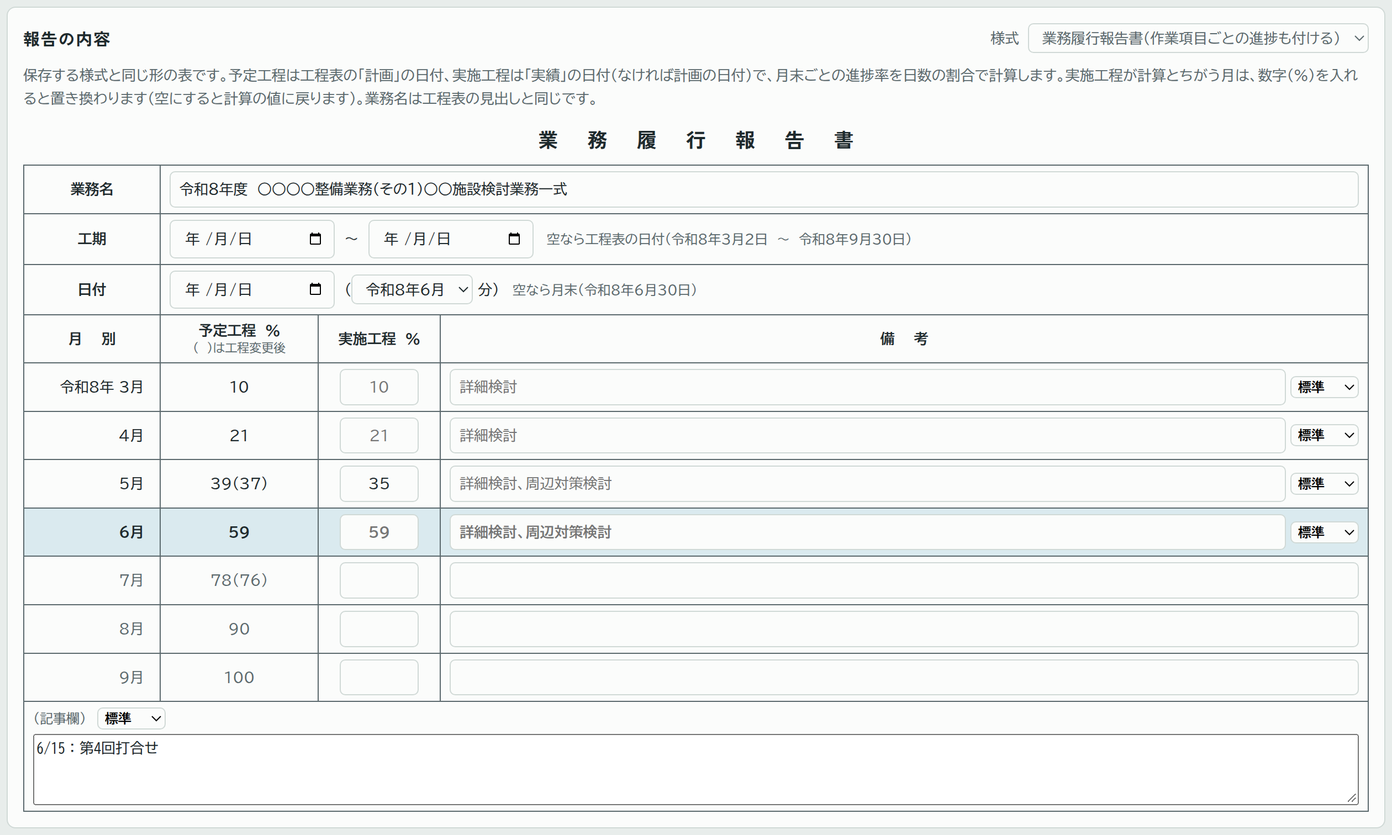
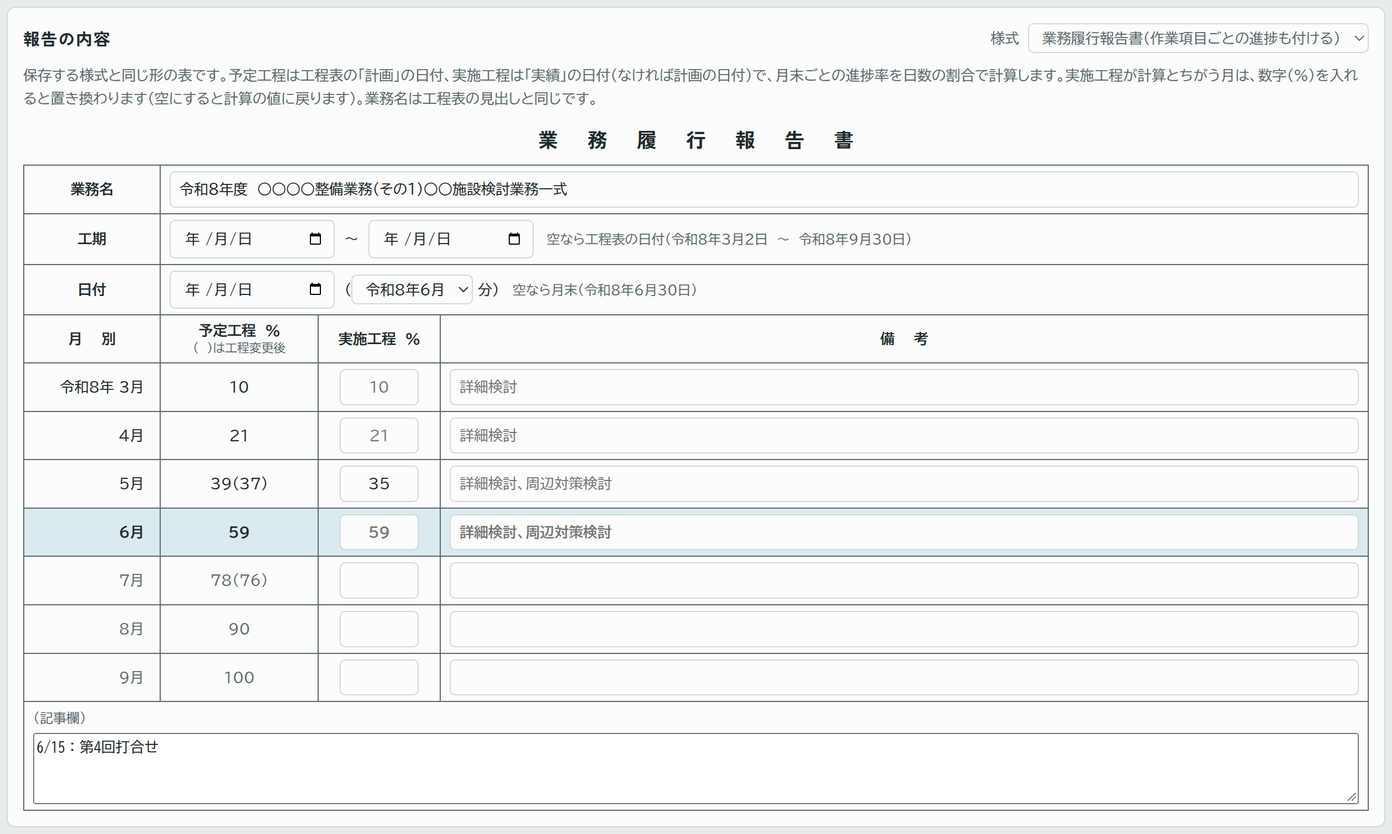
履行報告書の文字色の選択を外し、文字の色は工程表の文字色だけで決める

diff --git a/web/app.html b/web/app.html
@@ -119,11 +119,6 @@ textarea#src { display: block; width: 100%; height: 360px; resize: vertical; bor
 .linepop button { border: 1px solid var(--rule); background: var(--panel); border-radius: 5px; padding: 3px 10px; cursor: pointer; display: inline-flex; align-items: center; gap: 6px; }
 .linepop button svg { width: 22px; height: 6px; }
 .linepop button svg line { stroke: currentColor; stroke-width: 2; }
-table.repform .mnw { display: flex; gap: 4px; align-items: center; }
-table.repform .mnw input { flex: 1; min-width: 0; }
-table.repform select.tcol { width: auto; min-width: 4.6em; font-weight: 700; font-size: 12px; padding: 2px; }
-table.repform .ftl { display: flex; align-items: center; gap: 10px; margin-bottom: 4px; }
-table.repform tr.ft .ftl label { margin: 0; }
 .boxpop { flex-direction: column; align-items: stretch; gap: 4px; max-width: 480px; }
 .boxpop .row { display: flex; align-items: center; gap: 3px; flex-wrap: wrap; }
 .boxpop .lbl { min-width: 2.6em; }
@@ -2808,9 +2803,9 @@ function defaultSched() {
   return { head, cfg: Object.assign({}, CFG_DEFAULT), rows: [], ignoreSync: "", report: defaultReport() };
 }
 // 履行報告書：報告する月（2026-05）、報告日、文章（空なら工程表から作る）、手で入れた実施の進捗率（月ごと、%）
-const REP_TEXT = ["form", "month", "date", "kStart", "kEnd", "done", "next", "remarks", "doneColor", "nextColor", "remarksColor"];
+const REP_TEXT = ["form", "month", "date", "kStart", "kEnd", "done", "next", "remarks"];
 // form：rep＝履行報告書、gyomu＝業務履行報告書（作業項目ごとの進捗の表も付ける）
-const defaultReport = () => ({ form: "rep", month: "", date: "", kStart: "", kEnd: "", done: "", next: "", remarks: "", doneColor: "", nextColor: "", remarksColor: "", actual: {}, mnote: {}, mcolor: {} });
+const defaultReport = () => ({ form: "rep", month: "", date: "", kStart: "", kEnd: "", done: "", next: "", remarks: "", actual: {}, mnote: {} });
 function normalizeSched(o) {
   const sc = defaultSched();
   if (!o || typeof o !== "object") return sc;
@@ -2827,7 +2822,7 @@ function normalizeSched(o) {
   if (o.noAuto === true) sc.noAuto = true;
   if (o.report && typeof o.report === "object") {
     REP_TEXT.forEach(k => { if (typeof o.report[k] === "string") sc.report[k] = o.report[k]; });
-    ["actual", "mnote", "mcolor"].forEach(f => {
+    ["actual", "mnote"].forEach(f => {
       if (o.report[f] && typeof o.report[f] === "object")
         Object.entries(o.report[f]).forEach(([k, v]) => { if (/^\d{4}-\d{2}$/.test(k) && typeof v === "string") sc.report[f][k] = v; });
     });
@@ -5190,14 +5185,10 @@ function repFormHtml(RM, gyomu) {
   const rows = RM.months.map((x, i) => {
     const after = i > k;
     const act = `<input type="text" inputmode="decimal" data-act="${x.key}" value="${esc(rp.actual[x.key] || "")}" placeholder="${after ? "" : gyomu ? pctInt(x.auto) : pct1(x.auto)}" aria-label="${x.label}の実施工程（%）"${after ? " disabled" : ""}>`;
-    const mc = rp.mcolor[x.key] || "";
-    const note = gyomu ? `<div class="mnw"><input type="text" data-mnote="${x.key}" value="${esc(rp.mnote[x.key] || "")}" placeholder="${after ? "" : esc(x.noteAuto)}" aria-label="${x.label}の備考"${after ? " disabled" : ""}${mc ? ` style="color:#${mc}"` : ""}>`
-      + `${after ? "" : tcolorSelect(`data-mcolor="${x.key}" id="mc_${x.key}"`, mc, `${x.label}の備考の文字色`)}</div>` : `<span class="auto"></span>`;
+    const note = gyomu ? `<input type="text" data-mnote="${x.key}" value="${esc(rp.mnote[x.key] || "")}" placeholder="${after ? "" : esc(x.noteAuto)}" aria-label="${x.label}の備考"${after ? " disabled" : ""}>` : `<span class="auto"></span>`;
     return `<tr data-key="${x.key}" class="${i === k ? "cur" : after ? "after" : ""}"><td>${repMonthLabel(x, i, gyomu)}</td><td>${plan(x)}</td><td>${act}</td><td class="mn">${note}</td></tr>`;
   }).join("");
-  const box = (key, label, ph = "") => { const c = rp[key + "Color"] || "";
-    return `<tr class="ft"><td colspan="4"><div class="ftl"><label for="r_${key}">${label}</label>${tcolorSelect(`data-r="${key}Color" id="r_${key}Color"`, c, `${label.replace(/（.*$/, "")}の文字色`)}</div>`
-      + `<textarea id="r_${key}" data-r="${key}" rows="3"${ph ? ` placeholder="${esc(ph)}"` : ""}${c ? ` style="color:#${c}"` : ""}>${esc(rp[key])}</textarea></td></tr>`; };
+  const box = (key, label, ph = "") => `<tr class="ft"><td colspan="4"><label for="r_${key}">${label}</label><textarea id="r_${key}" data-r="${key}" rows="3"${ph ? ` placeholder="${esc(ph)}"` : ""}>${esc(rp[key])}</textarea></td></tr>`;
   const foot = gyomu ? box("remarks", "（記事欄）")
     : box("done", "今月の実施内容（空なら、工程表からこの文章を入れます）", RM.doneAuto) + box("next", "来月の予定（空なら、工程表からこの文章を入れます）", RM.nextAuto) + box("remarks", "備考");
   return `<caption>${gyomu ? "業 務 履 行 報 告 書" : "履 行 報 告 書"}</caption><colgroup><col class="c1"><col class="c2"><col class="c3"><col></colgroup>`
@@ -5245,11 +5236,6 @@ $("repForm").addEventListener("input", e => {
     sched.head[d.h] = el.value;
     const h = $(`h_${d.h}`);
     if (h) h.value = el.value;
-  } else if (d.mcolor) {
-    // 月ごとの備考の文字色
-    if (el.value) sched.report.mcolor[d.mcolor] = el.value; else delete sched.report.mcolor[d.mcolor];
-    renderReport(true);
-    const sel = $(`mc_${d.mcolor}`); if (sel) sel.focus();
   } else if (d.mnote) {
     if (clean(el.value)) sched.report.mnote[d.mnote] = el.value; else delete sched.report.mnote[d.mnote];
   } else if (d.act) {
@@ -5257,10 +5243,9 @@ $("repForm").addEventListener("input", e => {
     renderReport(false);
   } else if (d.r) {
     sched.report[d.r] = el.value;
-    // 報告する月・文字色を変えたら表を作り直す（選んだ欄はそのまま）
-    const full = d.r === "month" || /Color$/.test(d.r);
-    renderReport(full);
-    if (full && el.id && $(el.id)) $(el.id).focus();
+    // 報告する月を変えたら表を作り直す（選んだ欄はそのまま）
+    renderReport(d.r === "month");
+    if (d.r === "month") $("r_month").focus();
   } else return;
   savePlan();
 });
@@ -5349,12 +5334,12 @@ function reportXlsxParts(RM, sc) {
   const chartTop = r, chartRows = 16;
   r += chartRows + 1;
   // 3〜5. 文章
-  const texts = [["今月の実施内容", clean(rp.done) ? rp.done : RM.doneAuto, rp.doneColor], ["来月の予定", clean(rp.next) ? rp.next : RM.nextAuto, rp.nextColor], ["備考", rp.remarks || "", rp.remarksColor]];
-  for (const [title, body, tcol] of texts) {
+  const texts = [["今月の実施内容", clean(rp.done) ? rp.done : RM.doneAuto], ["来月の予定", clean(rp.next) ? rp.next : RM.nextAuto], ["備考", rp.remarks || ""]];
+  for (const [title, body] of texts) {
     blocks.push([r, r + 1]);
     put(r, 1, secTitle(title), { b: true }); merge(r, 1, r, LAST); r++;
     const txt = String(body).replace(/\r\n?/g, "\n").replace(/\s+$/, "");
-    put(r, 1, txt, { va: "top", wrap: true, indent: 1, color: tcol || "" }); merge(r, 1, r, LAST); frame(r, 1, r, LAST);
+    put(r, 1, txt, { va: "top", wrap: true, indent: 1 }); merge(r, 1, r, LAST); frame(r, 1, r, LAST);
     rowH[r] = Math.max(2, lines(txt)) * 15 + 8; r += 2;
   }
   const lastRow = r - 2;
@@ -5610,12 +5595,12 @@ function gyomuXlsxParts(RM, sc) {
     A.put(r, 2, RM.changed && ch !== pl ? `${pl}（${ch}）` : pl, { ha: "center" });
     if (x.act != null) A.put(r, 3, pctInt(x.act), { ha: "center" });
     const note = i <= k ? (clean(rp.mnote[x.key] || "") ? rp.mnote[x.key] : x.noteAuto) : "";
-    A.put(r, 4, note, { va: "top", wrap: true, indent: 1, color: rp.mcolor[x.key] || "" }); A.merge(r, 4, r, L1);
+    A.put(r, 4, note, { va: "top", wrap: true, indent: 1 }); A.merge(r, 4, r, L1);
     A.grid(r, 1, r, 3); A.box(r, 4, r, L1);
     A.sh.rowH[r] = note.length > 26 ? 36 : 26; r++;
   });
   const memo = `（記事欄）${clean(rp.remarks) ? "\n" + String(rp.remarks).replace(/\r\n?/g, "\n").replace(/\s+$/, "") : ""}`;
-  A.put(r, 1, memo, { va: "top", wrap: true, color: rp.remarksColor || "" }); A.merge(r, 1, r, L1); A.box(r, 1, r, L1);
+  A.put(r, 1, memo, { va: "top", wrap: true }); A.merge(r, 1, r, L1); A.box(r, 1, r, L1);
   A.sh.rowH[r] = Math.max(90, memo.split("\n").length * 16 + 20); r += 2;
   // 確認の欄（総括調査員・主任調査員・調査員・調査員／管理技術者）
   [["総　括\n調査員", 4], ["主　任\n調査員", 5], ["調査員", 6], ["調査員", 7], ["管理技術\n者", 9]].forEach(([t, c]) => A.put(r, c, t, { ha: "center", wrap: true, sz: 9 }));

diff --git a/フローチャート・工程表作成ツール.html b/フローチャート・工程表作成ツール.html
@@ -126,11 +126,6 @@ textarea#src { display: block; width: 100%; height: 360px; resize: vertical; bor
 .linepop button { border: 1px solid var(--rule); background: var(--panel); border-radius: 5px; padding: 3px 10px; cursor: pointer; display: inline-flex; align-items: center; gap: 6px; }
 .linepop button svg { width: 22px; height: 6px; }
 .linepop button svg line { stroke: currentColor; stroke-width: 2; }
-table.repform .mnw { display: flex; gap: 4px; align-items: center; }
-table.repform .mnw input { flex: 1; min-width: 0; }
-table.repform select.tcol { width: auto; min-width: 4.6em; font-weight: 700; font-size: 12px; padding: 2px; }
-table.repform .ftl { display: flex; align-items: center; gap: 10px; margin-bottom: 4px; }
-table.repform tr.ft .ftl label { margin: 0; }
 .boxpop { flex-direction: column; align-items: stretch; gap: 4px; max-width: 480px; }
 .boxpop .row { display: flex; align-items: center; gap: 3px; flex-wrap: wrap; }
 .boxpop .lbl { min-width: 2.6em; }
@@ -2815,9 +2810,9 @@ function defaultSched() {
   return { head, cfg: Object.assign({}, CFG_DEFAULT), rows: [], ignoreSync: "", report: defaultReport() };
 }
 // 履行報告書：報告する月（2026-05）、報告日、文章（空なら工程表から作る）、手で入れた実施の進捗率（月ごと、%）
-const REP_TEXT = ["form", "month", "date", "kStart", "kEnd", "done", "next", "remarks", "doneColor", "nextColor", "remarksColor"];
+const REP_TEXT = ["form", "month", "date", "kStart", "kEnd", "done", "next", "remarks"];
 // form：rep＝履行報告書、gyomu＝業務履行報告書（作業項目ごとの進捗の表も付ける）
-const defaultReport = () => ({ form: "rep", month: "", date: "", kStart: "", kEnd: "", done: "", next: "", remarks: "", doneColor: "", nextColor: "", remarksColor: "", actual: {}, mnote: {}, mcolor: {} });
+const defaultReport = () => ({ form: "rep", month: "", date: "", kStart: "", kEnd: "", done: "", next: "", remarks: "", actual: {}, mnote: {} });
 function normalizeSched(o) {
   const sc = defaultSched();
   if (!o || typeof o !== "object") return sc;
@@ -2834,7 +2829,7 @@ function normalizeSched(o) {
   if (o.noAuto === true) sc.noAuto = true;
   if (o.report && typeof o.report === "object") {
     REP_TEXT.forEach(k => { if (typeof o.report[k] === "string") sc.report[k] = o.report[k]; });
-    ["actual", "mnote", "mcolor"].forEach(f => {
+    ["actual", "mnote"].forEach(f => {
       if (o.report[f] && typeof o.report[f] === "object")
         Object.entries(o.report[f]).forEach(([k, v]) => { if (/^\d{4}-\d{2}$/.test(k) && typeof v === "string") sc.report[f][k] = v; });
     });
@@ -5197,14 +5192,10 @@ function repFormHtml(RM, gyomu) {
   const rows = RM.months.map((x, i) => {
     const after = i > k;
     const act = `<input type="text" inputmode="decimal" data-act="${x.key}" value="${esc(rp.actual[x.key] || "")}" placeholder="${after ? "" : gyomu ? pctInt(x.auto) : pct1(x.auto)}" aria-label="${x.label}の実施工程（%）"${after ? " disabled" : ""}>`;
-    const mc = rp.mcolor[x.key] || "";
-    const note = gyomu ? `<div class="mnw"><input type="text" data-mnote="${x.key}" value="${esc(rp.mnote[x.key] || "")}" placeholder="${after ? "" : esc(x.noteAuto)}" aria-label="${x.label}の備考"${after ? " disabled" : ""}${mc ? ` style="color:#${mc}"` : ""}>`
-      + `${after ? "" : tcolorSelect(`data-mcolor="${x.key}" id="mc_${x.key}"`, mc, `${x.label}の備考の文字色`)}</div>` : `<span class="auto"></span>`;
+    const note = gyomu ? `<input type="text" data-mnote="${x.key}" value="${esc(rp.mnote[x.key] || "")}" placeholder="${after ? "" : esc(x.noteAuto)}" aria-label="${x.label}の備考"${after ? " disabled" : ""}>` : `<span class="auto"></span>`;
     return `<tr data-key="${x.key}" class="${i === k ? "cur" : after ? "after" : ""}"><td>${repMonthLabel(x, i, gyomu)}</td><td>${plan(x)}</td><td>${act}</td><td class="mn">${note}</td></tr>`;
   }).join("");
-  const box = (key, label, ph = "") => { const c = rp[key + "Color"] || "";
-    return `<tr class="ft"><td colspan="4"><div class="ftl"><label for="r_${key}">${label}</label>${tcolorSelect(`data-r="${key}Color" id="r_${key}Color"`, c, `${label.replace(/（.*$/, "")}の文字色`)}</div>`
-      + `<textarea id="r_${key}" data-r="${key}" rows="3"${ph ? ` placeholder="${esc(ph)}"` : ""}${c ? ` style="color:#${c}"` : ""}>${esc(rp[key])}</textarea></td></tr>`; };
+  const box = (key, label, ph = "") => `<tr class="ft"><td colspan="4"><label for="r_${key}">${label}</label><textarea id="r_${key}" data-r="${key}" rows="3"${ph ? ` placeholder="${esc(ph)}"` : ""}>${esc(rp[key])}</textarea></td></tr>`;
   const foot = gyomu ? box("remarks", "（記事欄）")
     : box("done", "今月の実施内容（空なら、工程表からこの文章を入れます）", RM.doneAuto) + box("next", "来月の予定（空なら、工程表からこの文章を入れます）", RM.nextAuto) + box("remarks", "備考");
   return `<caption>${gyomu ? "業 務 履 行 報 告 書" : "履 行 報 告 書"}</caption><colgroup><col class="c1"><col class="c2"><col class="c3"><col></colgroup>`
@@ -5252,11 +5243,6 @@ $("repForm").addEventListener("input", e => {
     sched.head[d.h] = el.value;
     const h = $(`h_${d.h}`);
     if (h) h.value = el.value;
-  } else if (d.mcolor) {
-    // 月ごとの備考の文字色
-    if (el.value) sched.report.mcolor[d.mcolor] = el.value; else delete sched.report.mcolor[d.mcolor];
-    renderReport(true);
-    const sel = $(`mc_${d.mcolor}`); if (sel) sel.focus();
   } else if (d.mnote) {
     if (clean(el.value)) sched.report.mnote[d.mnote] = el.value; else delete sched.report.mnote[d.mnote];
   } else if (d.act) {
@@ -5264,10 +5250,9 @@ $("repForm").addEventListener("input", e => {
     renderReport(false);
   } else if (d.r) {
     sched.report[d.r] = el.value;
-    // 報告する月・文字色を変えたら表を作り直す（選んだ欄はそのまま）
-    const full = d.r === "month" || /Color$/.test(d.r);
-    renderReport(full);
-    if (full && el.id && $(el.id)) $(el.id).focus();
+    // 報告する月を変えたら表を作り直す（選んだ欄はそのまま）
+    renderReport(d.r === "month");
+    if (d.r === "month") $("r_month").focus();
   } else return;
   savePlan();
 });
@@ -5356,12 +5341,12 @@ function reportXlsxParts(RM, sc) {
   const chartTop = r, chartRows = 16;
   r += chartRows + 1;
   // 3〜5. 文章
-  const texts = [["今月の実施内容", clean(rp.done) ? rp.done : RM.doneAuto, rp.doneColor], ["来月の予定", clean(rp.next) ? rp.next : RM.nextAuto, rp.nextColor], ["備考", rp.remarks || "", rp.remarksColor]];
-  for (const [title, body, tcol] of texts) {
+  const texts = [["今月の実施内容", clean(rp.done) ? rp.done : RM.doneAuto], ["来月の予定", clean(rp.next) ? rp.next : RM.nextAuto], ["備考", rp.remarks || ""]];
+  for (const [title, body] of texts) {
     blocks.push([r, r + 1]);
     put(r, 1, secTitle(title), { b: true }); merge(r, 1, r, LAST); r++;
     const txt = String(body).replace(/\r\n?/g, "\n").replace(/\s+$/, "");
-    put(r, 1, txt, { va: "top", wrap: true, indent: 1, color: tcol || "" }); merge(r, 1, r, LAST); frame(r, 1, r, LAST);
+    put(r, 1, txt, { va: "top", wrap: true, indent: 1 }); merge(r, 1, r, LAST); frame(r, 1, r, LAST);
     rowH[r] = Math.max(2, lines(txt)) * 15 + 8; r += 2;
   }
   const lastRow = r - 2;
@@ -5617,12 +5602,12 @@ function gyomuXlsxParts(RM, sc) {
     A.put(r, 2, RM.changed && ch !== pl ? `${pl}（${ch}）` : pl, { ha: "center" });
     if (x.act != null) A.put(r, 3, pctInt(x.act), { ha: "center" });
     const note = i <= k ? (clean(rp.mnote[x.key] || "") ? rp.mnote[x.key] : x.noteAuto) : "";
-    A.put(r, 4, note, { va: "top", wrap: true, indent: 1, color: rp.mcolor[x.key] || "" }); A.merge(r, 4, r, L1);
+    A.put(r, 4, note, { va: "top", wrap: true, indent: 1 }); A.merge(r, 4, r, L1);
     A.grid(r, 1, r, 3); A.box(r, 4, r, L1);
     A.sh.rowH[r] = note.length > 26 ? 36 : 26; r++;
   });
   const memo = `（記事欄）${clean(rp.remarks) ? "\n" + String(rp.remarks).replace(/\r\n?/g, "\n").replace(/\s+$/, "") : ""}`;
-  A.put(r, 1, memo, { va: "top", wrap: true, color: rp.remarksColor || "" }); A.merge(r, 1, r, L1); A.box(r, 1, r, L1);
+  A.put(r, 1, memo, { va: "top", wrap: true }); A.merge(r, 1, r, L1); A.box(r, 1, r, L1);
   A.sh.rowH[r] = Math.max(90, memo.split("\n").length * 16 + 20); r += 2;
   // 確認の欄（総括調査員・主任調査員・調査員・調査員／管理技術者）
   [["総　括\n調査員", 4], ["主　任\n調査員", 5], ["調査員", 6], ["調査員", 7], ["管理技術\n者", 9]].forEach(([t, c]) => A.put(r, c, t, { ha: "center", wrap: true, sz: 9 }));

diff --git a/フローチャート・工程表作成ツール（フロー・工程表のみ）.html b/フローチャート・工程表作成ツール（フロー・工程表のみ）.html
@@ -126,11 +126,6 @@ textarea#src { display: block; width: 100%; height: 360px; resize: vertical; bor
 .linepop button { border: 1px solid var(--rule); background: var(--panel); border-radius: 5px; padding: 3px 10px; cursor: pointer; display: inline-flex; align-items: center; gap: 6px; }
 .linepop button svg { width: 22px; height: 6px; }
 .linepop button svg line { stroke: currentColor; stroke-width: 2; }
-table.repform .mnw { display: flex; gap: 4px; align-items: center; }
-table.repform .mnw input { flex: 1; min-width: 0; }
-table.repform select.tcol { width: auto; min-width: 4.6em; font-weight: 700; font-size: 12px; padding: 2px; }
-table.repform .ftl { display: flex; align-items: center; gap: 10px; margin-bottom: 4px; }
-table.repform tr.ft .ftl label { margin: 0; }
 .boxpop { flex-direction: column; align-items: stretch; gap: 4px; max-width: 480px; }
 .boxpop .row { display: flex; align-items: center; gap: 3px; flex-wrap: wrap; }
 .boxpop .lbl { min-width: 2.6em; }
@@ -2815,9 +2810,9 @@ function defaultSched() {
   return { head, cfg: Object.assign({}, CFG_DEFAULT), rows: [], ignoreSync: "", report: defaultReport() };
 }
 // 履行報告書：報告する月（2026-05）、報告日、文章（空なら工程表から作る）、手で入れた実施の進捗率（月ごと、%）
-const REP_TEXT = ["form", "month", "date", "kStart", "kEnd", "done", "next", "remarks", "doneColor", "nextColor", "remarksColor"];
+const REP_TEXT = ["form", "month", "date", "kStart", "kEnd", "done", "next", "remarks"];
 // form：rep＝履行報告書、gyomu＝業務履行報告書（作業項目ごとの進捗の表も付ける）
-const defaultReport = () => ({ form: "rep", month: "", date: "", kStart: "", kEnd: "", done: "", next: "", remarks: "", doneColor: "", nextColor: "", remarksColor: "", actual: {}, mnote: {}, mcolor: {} });
+const defaultReport = () => ({ form: "rep", month: "", date: "", kStart: "", kEnd: "", done: "", next: "", remarks: "", actual: {}, mnote: {} });
 function normalizeSched(o) {
   const sc = defaultSched();
   if (!o || typeof o !== "object") return sc;
@@ -2834,7 +2829,7 @@ function normalizeSched(o) {
   if (o.noAuto === true) sc.noAuto = true;
   if (o.report && typeof o.report === "object") {
     REP_TEXT.forEach(k => { if (typeof o.report[k] === "string") sc.report[k] = o.report[k]; });
-    ["actual", "mnote", "mcolor"].forEach(f => {
+    ["actual", "mnote"].forEach(f => {
       if (o.report[f] && typeof o.report[f] === "object")
         Object.entries(o.report[f]).forEach(([k, v]) => { if (/^\d{4}-\d{2}$/.test(k) && typeof v === "string") sc.report[f][k] = v; });
     });
@@ -5197,14 +5192,10 @@ function repFormHtml(RM, gyomu) {
   const rows = RM.months.map((x, i) => {
     const after = i > k;
     const act = `<input type="text" inputmode="decimal" data-act="${x.key}" value="${esc(rp.actual[x.key] || "")}" placeholder="${after ? "" : gyomu ? pctInt(x.auto) : pct1(x.auto)}" aria-label="${x.label}の実施工程（%）"${after ? " disabled" : ""}>`;
-    const mc = rp.mcolor[x.key] || "";
-    const note = gyomu ? `<div class="mnw"><input type="text" data-mnote="${x.key}" value="${esc(rp.mnote[x.key] || "")}" placeholder="${after ? "" : esc(x.noteAuto)}" aria-label="${x.label}の備考"${after ? " disabled" : ""}${mc ? ` style="color:#${mc}"` : ""}>`
-      + `${after ? "" : tcolorSelect(`data-mcolor="${x.key}" id="mc_${x.key}"`, mc, `${x.label}の備考の文字色`)}</div>` : `<span class="auto"></span>`;
+    const note = gyomu ? `<input type="text" data-mnote="${x.key}" value="${esc(rp.mnote[x.key] || "")}" placeholder="${after ? "" : esc(x.noteAuto)}" aria-label="${x.label}の備考"${after ? " disabled" : ""}>` : `<span class="auto"></span>`;
     return `<tr data-key="${x.key}" class="${i === k ? "cur" : after ? "after" : ""}"><td>${repMonthLabel(x, i, gyomu)}</td><td>${plan(x)}</td><td>${act}</td><td class="mn">${note}</td></tr>`;
   }).join("");
-  const box = (key, label, ph = "") => { const c = rp[key + "Color"] || "";
-    return `<tr class="ft"><td colspan="4"><div class="ftl"><label for="r_${key}">${label}</label>${tcolorSelect(`data-r="${key}Color" id="r_${key}Color"`, c, `${label.replace(/（.*$/, "")}の文字色`)}</div>`
-      + `<textarea id="r_${key}" data-r="${key}" rows="3"${ph ? ` placeholder="${esc(ph)}"` : ""}${c ? ` style="color:#${c}"` : ""}>${esc(rp[key])}</textarea></td></tr>`; };
+  const box = (key, label, ph = "") => `<tr class="ft"><td colspan="4"><label for="r_${key}">${label}</label><textarea id="r_${key}" data-r="${key}" rows="3"${ph ? ` placeholder="${esc(ph)}"` : ""}>${esc(rp[key])}</textarea></td></tr>`;
   const foot = gyomu ? box("remarks", "（記事欄）")
     : box("done", "今月の実施内容（空なら、工程表からこの文章を入れます）", RM.doneAuto) + box("next", "来月の予定（空なら、工程表からこの文章を入れます）", RM.nextAuto) + box("remarks", "備考");
   return `<caption>${gyomu ? "業 務 履 行 報 告 書" : "履 行 報 告 書"}</caption><colgroup><col class="c1"><col class="c2"><col class="c3"><col></colgroup>`
@@ -5252,11 +5243,6 @@ $("repForm").addEventListener("input", e => {
     sched.head[d.h] = el.value;
     const h = $(`h_${d.h}`);
     if (h) h.value = el.value;
-  } else if (d.mcolor) {
-    // 月ごとの備考の文字色
-    if (el.value) sched.report.mcolor[d.mcolor] = el.value; else delete sched.report.mcolor[d.mcolor];
-    renderReport(true);
-    const sel = $(`mc_${d.mcolor}`); if (sel) sel.focus();
   } else if (d.mnote) {
     if (clean(el.value)) sched.report.mnote[d.mnote] = el.value; else delete sched.report.mnote[d.mnote];
   } else if (d.act) {
@@ -5264,10 +5250,9 @@ $("repForm").addEventListener("input", e => {
     renderReport(false);
   } else if (d.r) {
     sched.report[d.r] = el.value;
-    // 報告する月・文字色を変えたら表を作り直す（選んだ欄はそのまま）
-    const full = d.r === "month" || /Color$/.test(d.r);
-    renderReport(full);
-    if (full && el.id && $(el.id)) $(el.id).focus();
+    // 報告する月を変えたら表を作り直す（選んだ欄はそのまま）
+    renderReport(d.r === "month");
+    if (d.r === "month") $("r_month").focus();
   } else return;
   savePlan();
 });
@@ -5356,12 +5341,12 @@ function reportXlsxParts(RM, sc) {
   const chartTop = r, chartRows = 16;
   r += chartRows + 1;
   // 3〜5. 文章
-  const texts = [["今月の実施内容", clean(rp.done) ? rp.done : RM.doneAuto, rp.doneColor], ["来月の予定", clean(rp.next) ? rp.next : RM.nextAuto, rp.nextColor], ["備考", rp.remarks || "", rp.remarksColor]];
-  for (const [title, body, tcol] of texts) {
+  const texts = [["今月の実施内容", clean(rp.done) ? rp.done : RM.doneAuto], ["来月の予定", clean(rp.next) ? rp.next : RM.nextAuto], ["備考", rp.remarks || ""]];
+  for (const [title, body] of texts) {
     blocks.push([r, r + 1]);
     put(r, 1, secTitle(title), { b: true }); merge(r, 1, r, LAST); r++;
     const txt = String(body).replace(/\r\n?/g, "\n").replace(/\s+$/, "");
-    put(r, 1, txt, { va: "top", wrap: true, indent: 1, color: tcol || "" }); merge(r, 1, r, LAST); frame(r, 1, r, LAST);
+    put(r, 1, txt, { va: "top", wrap: true, indent: 1 }); merge(r, 1, r, LAST); frame(r, 1, r, LAST);
     rowH[r] = Math.max(2, lines(txt)) * 15 + 8; r += 2;
   }
   const lastRow = r - 2;
@@ -5617,12 +5602,12 @@ function gyomuXlsxParts(RM, sc) {
     A.put(r, 2, RM.changed && ch !== pl ? `${pl}（${ch}）` : pl, { ha: "center" });
     if (x.act != null) A.put(r, 3, pctInt(x.act), { ha: "center" });
     const note = i <= k ? (clean(rp.mnote[x.key] || "") ? rp.mnote[x.key] : x.noteAuto) : "";
-    A.put(r, 4, note, { va: "top", wrap: true, indent: 1, color: rp.mcolor[x.key] || "" }); A.merge(r, 4, r, L1);
+    A.put(r, 4, note, { va: "top", wrap: true, indent: 1 }); A.merge(r, 4, r, L1);
     A.grid(r, 1, r, 3); A.box(r, 4, r, L1);
     A.sh.rowH[r] = note.length > 26 ? 36 : 26; r++;
   });
   const memo = `（記事欄）${clean(rp.remarks) ? "\n" + String(rp.remarks).replace(/\r\n?/g, "\n").replace(/\s+$/, "") : ""}`;
-  A.put(r, 1, memo, { va: "top", wrap: true, color: rp.remarksColor || "" }); A.merge(r, 1, r, L1); A.box(r, 1, r, L1);
+  A.put(r, 1, memo, { va: "top", wrap: true }); A.merge(r, 1, r, L1); A.box(r, 1, r, L1);
   A.sh.rowH[r] = Math.max(90, memo.split("\n").length * 16 + 20); r += 2;
   // 確認の欄（総括調査員・主任調査員・調査員・調査員／管理技術者）
   [["総　括\n調査員", 4], ["主　任\n調査員", 5], ["調査員", 6], ["調査員", 7], ["管理技術\n者", 9]].forEach(([t, c]) => A.put(r, c, t, { ha: "center", wrap: true, sz: 9 }));

diff --git a/tools/build_manual.py b/tools/build_manual.py
@@ -184,7 +184,7 @@ for _ in range(3): doc.add_paragraph()
 para('フローチャート・工程表作成ツール', 24, True, ACCENT, WD_ALIGN_PARAGRAPH.CENTER, 8)
 para('操作説明書', 22, True, None, WD_ALIGN_PARAGRAPH.CENTER, 36)
 img('f_paper', 4.6)
-para('バージョン 1.18.0', 10.5, None, None, WD_ALIGN_PARAGRAPH.CENTER, 18)
+para('バージョン 1.18.1', 10.5, None, None, WD_ALIGN_PARAGRAPH.CENTER, 18)
 p = doc.add_paragraph(); p.alignment = WD_ALIGN_PARAGRAPH.LEFT
 for i, t in enumerate(['概要', '動作環境と起動', '画面構成', 'フローチャートの作成', '図の編集', 'PowerPoint への出力',
                        '工程表の作成', 'Excel への出力', '工程表からフローチャートへの反映', '履行報告書・業務履行報告書の作成', '入力の保存と読み込み', 'よくある質問']):
@@ -406,7 +406,7 @@ bullets([
     '**1 枚目（業務履行報告書）**：業務名・工期・日付（何月分か）、月別の予定工程％と実施工程％、備考、記事欄、確認欄（総括調査員・主任調査員・調査員・管理技術者）。予定工程は、実績の日付で計算した値が計画と異なる月は、その値を（　）で併記します（様式の「（　）は工程変更後」）。',
     '**2 枚目（工程・進捗率）**：履行期間、業務工程表（上旬・中旬・下旬、計画＝黒の線、実績＝赤の線。実績は報告する月の末日まで）、作業進捗率の折れ線グラフ（計画＝黒の点線、実績＝赤、0 から開始）。',
     '工期は「工期（始め）」「工期（終わり）」で指定します。空欄の場合は工程表の最初と最後の日を使います。',
-    '月ごとの備考は、空欄の場合その月にかかっている作業名を自動で記載します（小項目は上の作業名、照査・打合せは除く）。表の「備考」欄で書き換えられます。記事欄には表の「（記事欄）」の内容を記載します。月ごとの備考と記事欄は、欄の横の「標準」の選択で文字の色を変えられます（履行報告書の様式では、今月の実施内容・来月の予定・備考も）。',
+    '月ごとの備考は、空欄の場合その月にかかっている作業名を自動で記載します（小項目は上の作業名、照査・打合せは除く）。表の「備考」欄で書き換えられます。記事欄には表の「（記事欄）」の内容を記載します。',
     '業務工程表の単位・数量は、期間が 1 つの作業は「式・1」、複数ある作業（打合せなど）は「回・回数」とします。摘要には工程表の備考を記載します。',
 ])
 img('h_items', 16, '画面の作業項目ごとの進捗（業務履行報告書を選択したとき）')

diff --git a/README.md b/README.md
@@ -50,7 +50,6 @@ EXE は Windows 10・11 に入っている .NET Framework 4.8 と「Microsoft Ed
 - 業務履行報告書は提出用の形式（1 枚目：月別の予定工程％・実施工程％・備考・記事欄・確認欄、2 枚目：業務工程表（計画＝黒、実績＝赤）と作業進捗率のグラフ）
 - 画面の「報告の内容」は、提出する様式と同じ形の 1 つの表（業務名・工期・日付、月ごとの予定工程・実施工程・備考、記事欄）
 - 実績の値は月ごとに手で置き換えられる
-- 月ごとの備考・記事欄（履行報告書は今月の実施内容・来月の予定・備考）の文字の色を変えられる
 - 今月の実施内容・来月の予定は、工程表の作業名から自動で文案
 - Excel で保存（表と Excel の折れ線グラフ。黒の点線＝計画、赤＝実績）
 - 工程表の「作業と日程」の「履行報告書に反映」で、工程表の作業と日付から作り直して履行報告書のタブを開く（いつも工程表から作るので、タブを開くだけでも同じ）
